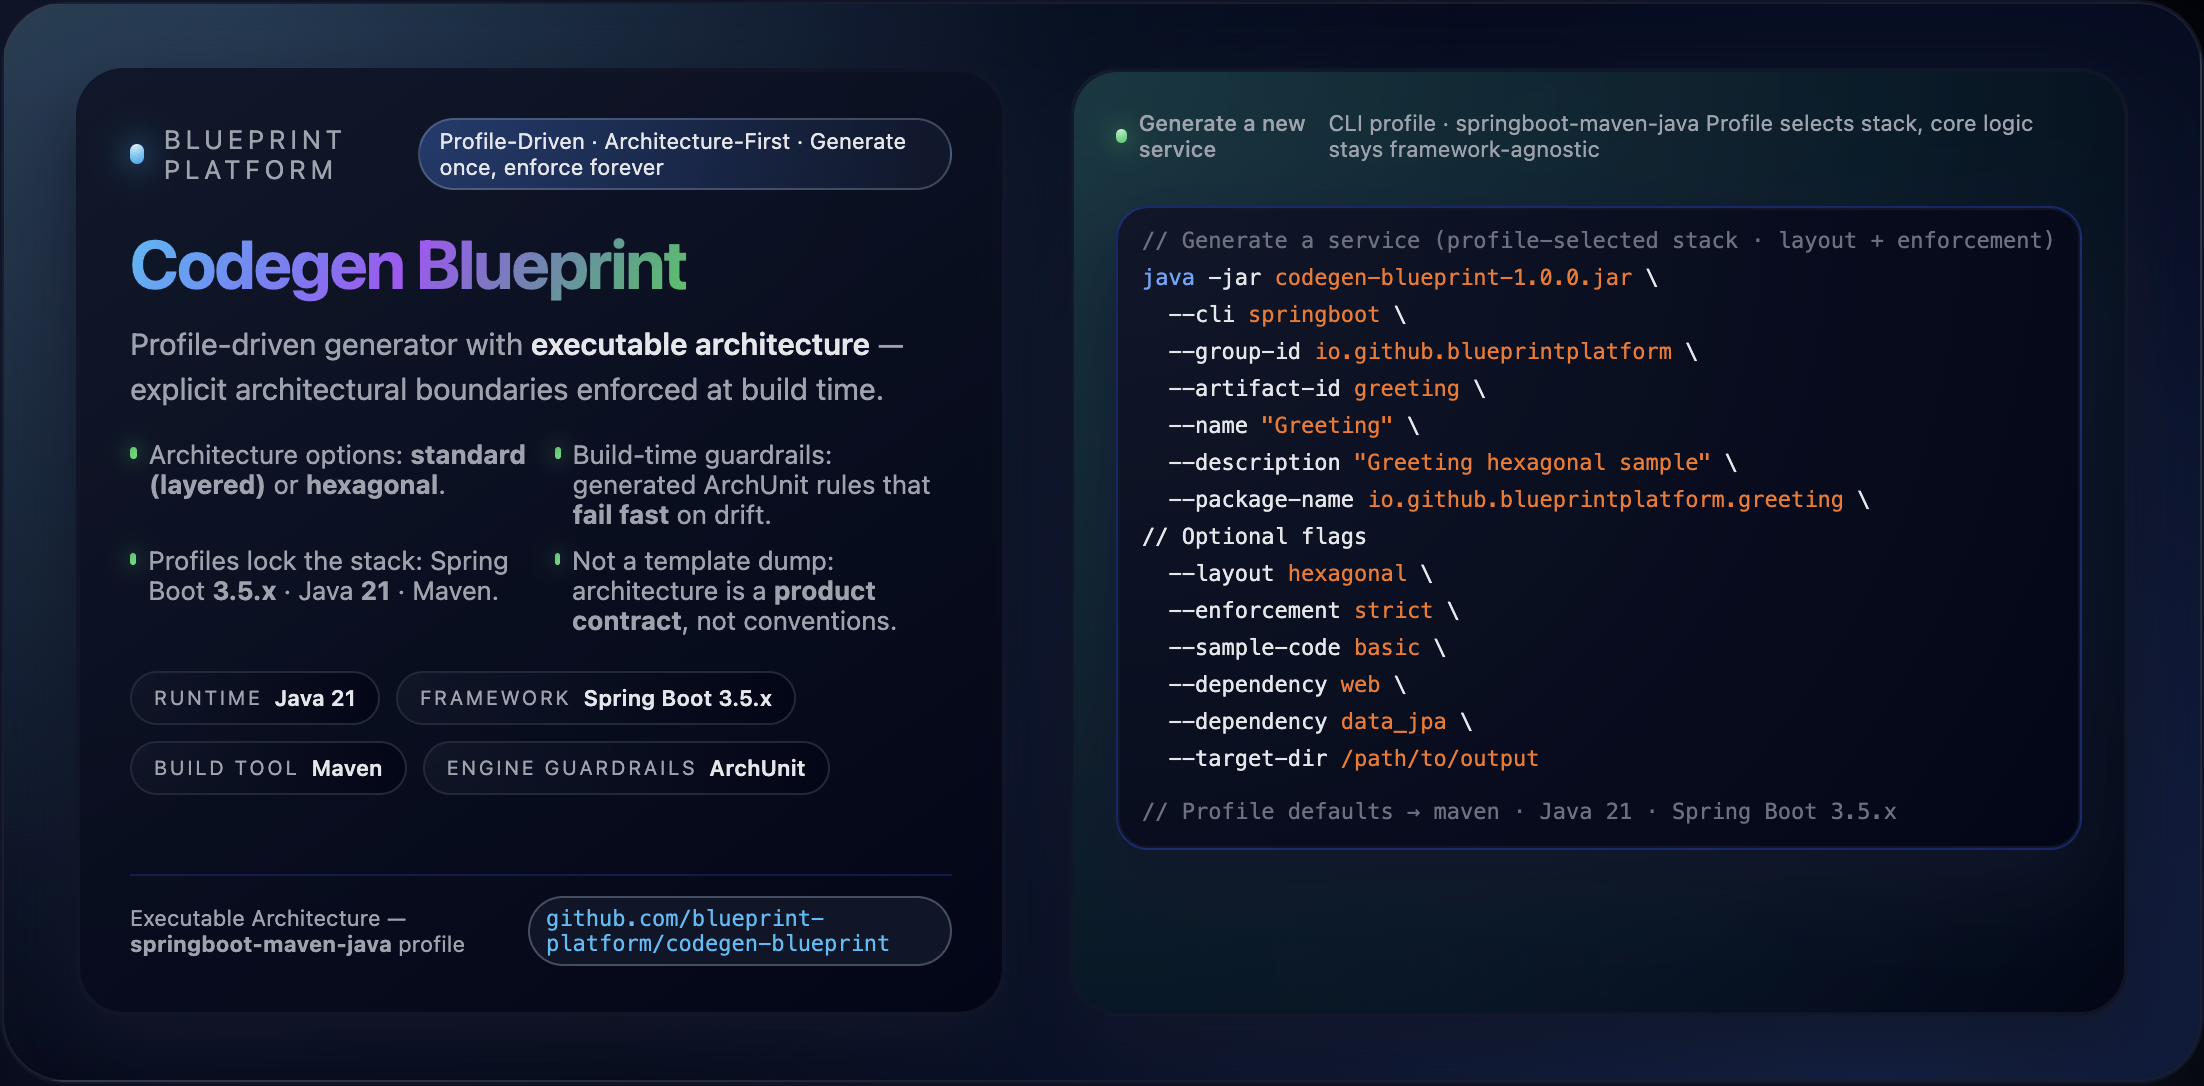
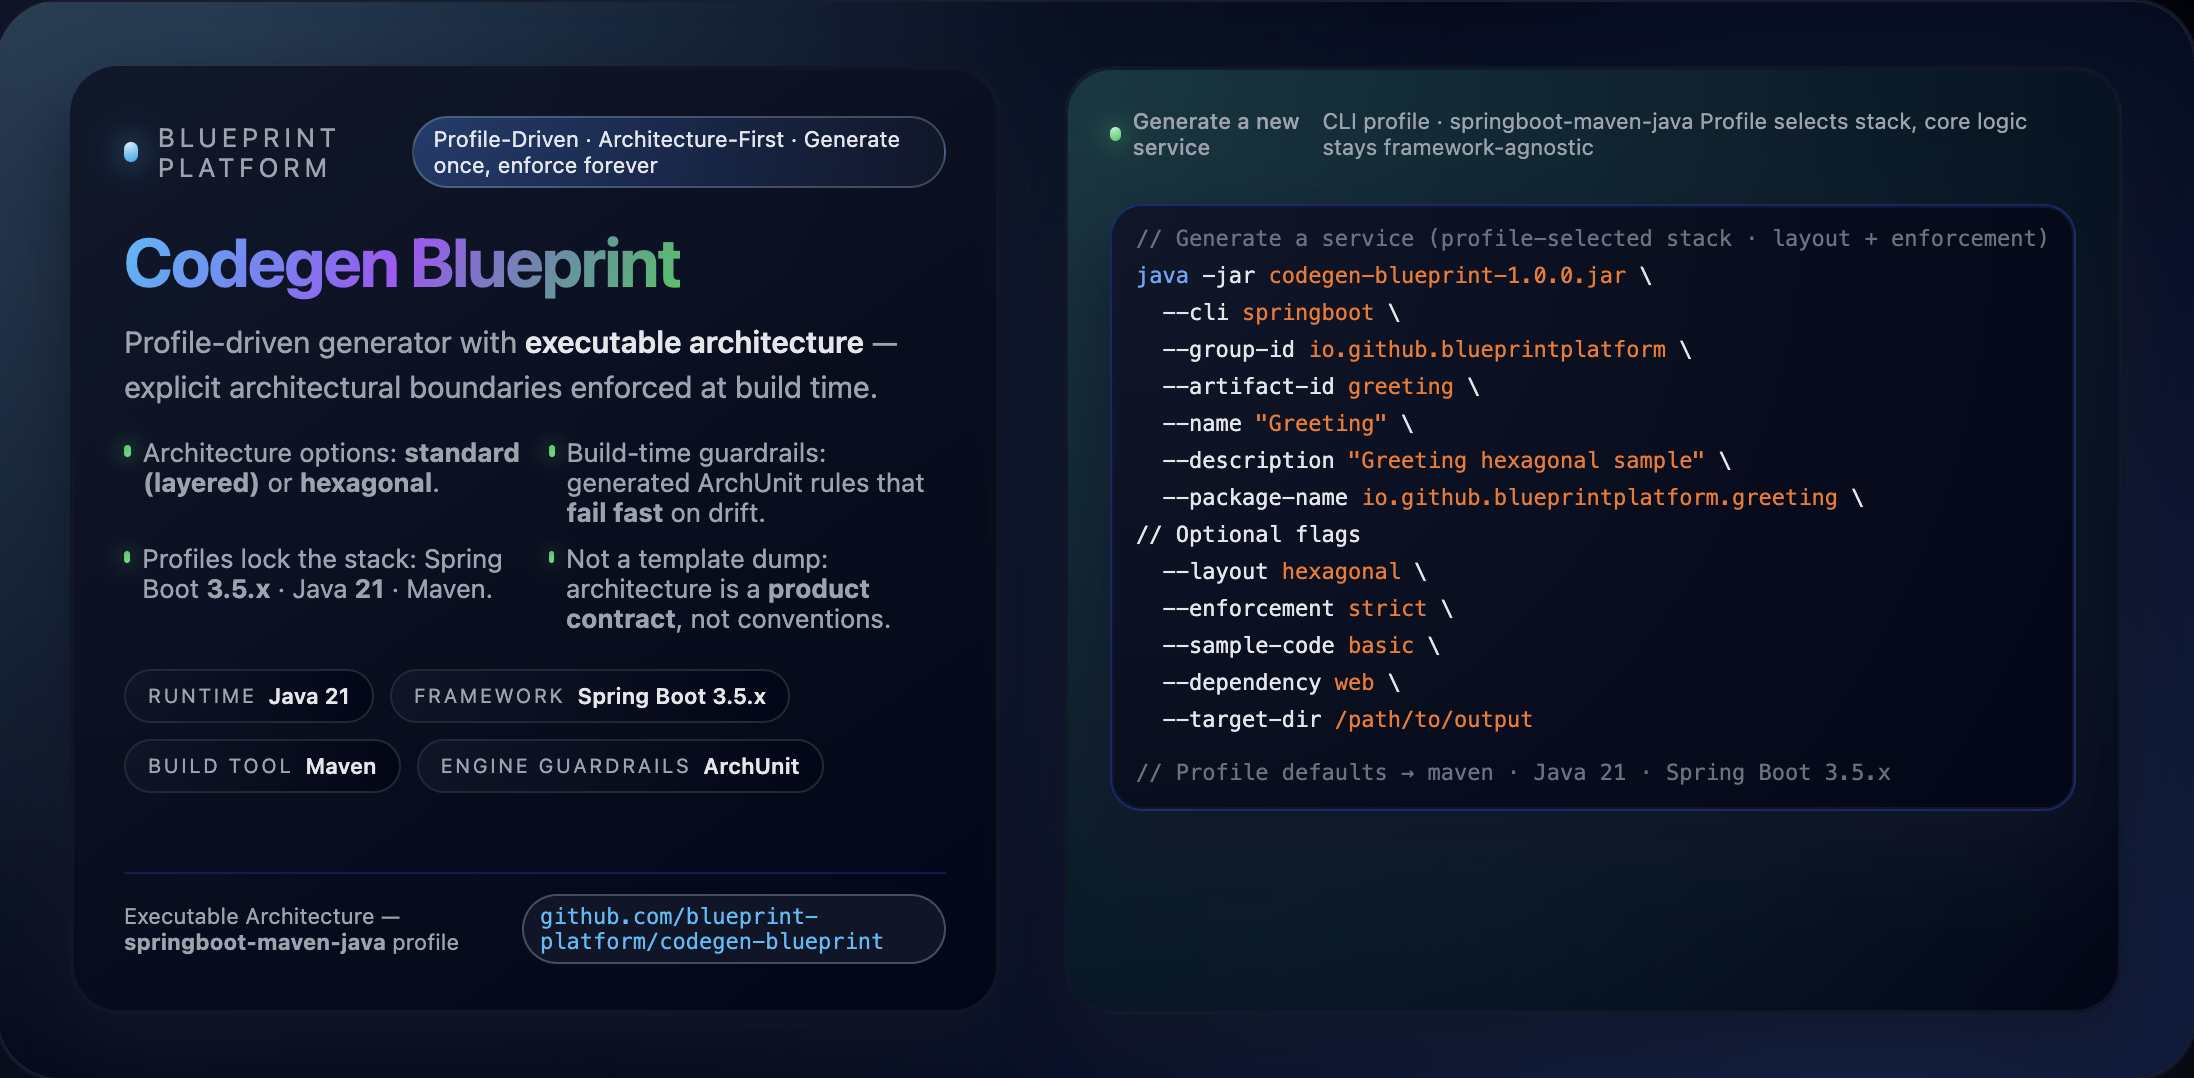
docs: align CLI examples and social covers with minimal dependency usage
- Simplified CLI examples to use only 'web' dependency
- Removed misleading data_jpa / actuator usage from docs and covers
- Aligned README, guides, discussions, and social preview visuals
- Adjusted cover and cover-mini layouts for correct visual rendering

diff --git a/docs/images/cover/cover.html b/docs/images/cover/cover.html
@@ -429,7 +429,6 @@
         <div class="code-line code-cmd">  --enforcement <span class="code-str">strict</span> &bsol;</div>
         <div class="code-line code-cmd">  --sample-code <span class="code-str">basic</span> &bsol;</div>
         <div class="code-line code-cmd">  --dependency <span class="code-str">web</span> &bsol;</div>
-        <div class="code-line code-cmd">  --dependency <span class="code-str">data_jpa</span> &bsol;</div>
         <div class="code-line code-cmd">  --target-dir <span class="code-str">/path/to/output</span></div>
 
         <div class="code-line code-muted" style="margin-top: 8px;">// Profile defaults → maven · Java 21 · Spring Boot 3.5.x</div>

diff --git a/docs/demo/executable-architecture-proof.md b/docs/demo/executable-architecture-proof.md
@@ -108,9 +108,7 @@ java -jar codegen-blueprint-1.0.0.jar \
   --layout hexagonal \
   --enforcement strict \
   --sample-code basic \
-  --dependency web \
-  --dependency data_jpa \
-  --dependency actuator
+  --dependency web
 ```
 
 Strict enforcement is enabled from the start.
@@ -214,15 +212,13 @@ java -jar codegen-blueprint-1.0.0.jar \
   --cli springboot \
   --group-id io.github.blueprintplatform \
   --artifact-id greeting-standard \
-  --name "Greeting (Standard Layered)" \
+  --name "Greeting" \
   --description "Greeting sample built with standard layered architecture" \
   --package-name io.github.blueprintplatform.greeting \
   --layout standard \
   --enforcement strict \
   --sample-code basic \
-  --dependency web \
-  --dependency data_jpa \
-  --dependency actuator
+  --dependency web
 ```
 
 The same enforcement mode is used, but **different architectural rules apply**.

diff --git a/README.md b/README.md
@@ -383,8 +383,6 @@ java -jar codegen-blueprint-1.0.0.jar \
   --enforcement strict \
   --sample-code basic \
   --dependency web \
-  --dependency data_jpa \
-  --dependency actuator \
   --target-dir /path/to/output
 ```
 
@@ -431,6 +429,12 @@ devtools
 ```
 
 Invalid or unknown aliases will fail fast during CLI execution.
+
+> `--dependency` is **repeatable**. Multiple aliases may be specified:
+>
+> ```bash
+> --dependency web --dependency actuator --dependency data_jpa
+> ```
 
 ---
 

diff --git a/docs/guides/how-to-explore-hexagonal-architecture.md b/docs/guides/how-to-explore-hexagonal-architecture.md
@@ -374,8 +374,12 @@ java -jar codegen-blueprint-1.0.0.jar \
   --package-name io.github.blueprintplatform.greeting \
   --layout hexagonal \
   --enforcement strict \
-  --sample-code basic
+  --sample-code basic \
+  --dependency web \
+  --target-dir /path/to/output
 ```
+> Note: Additional `--dependency` flags may be provided.  
+> This example keeps the focus on **architecture and use-case boundaries**, not infrastructure breadth.
 
 ---
 
